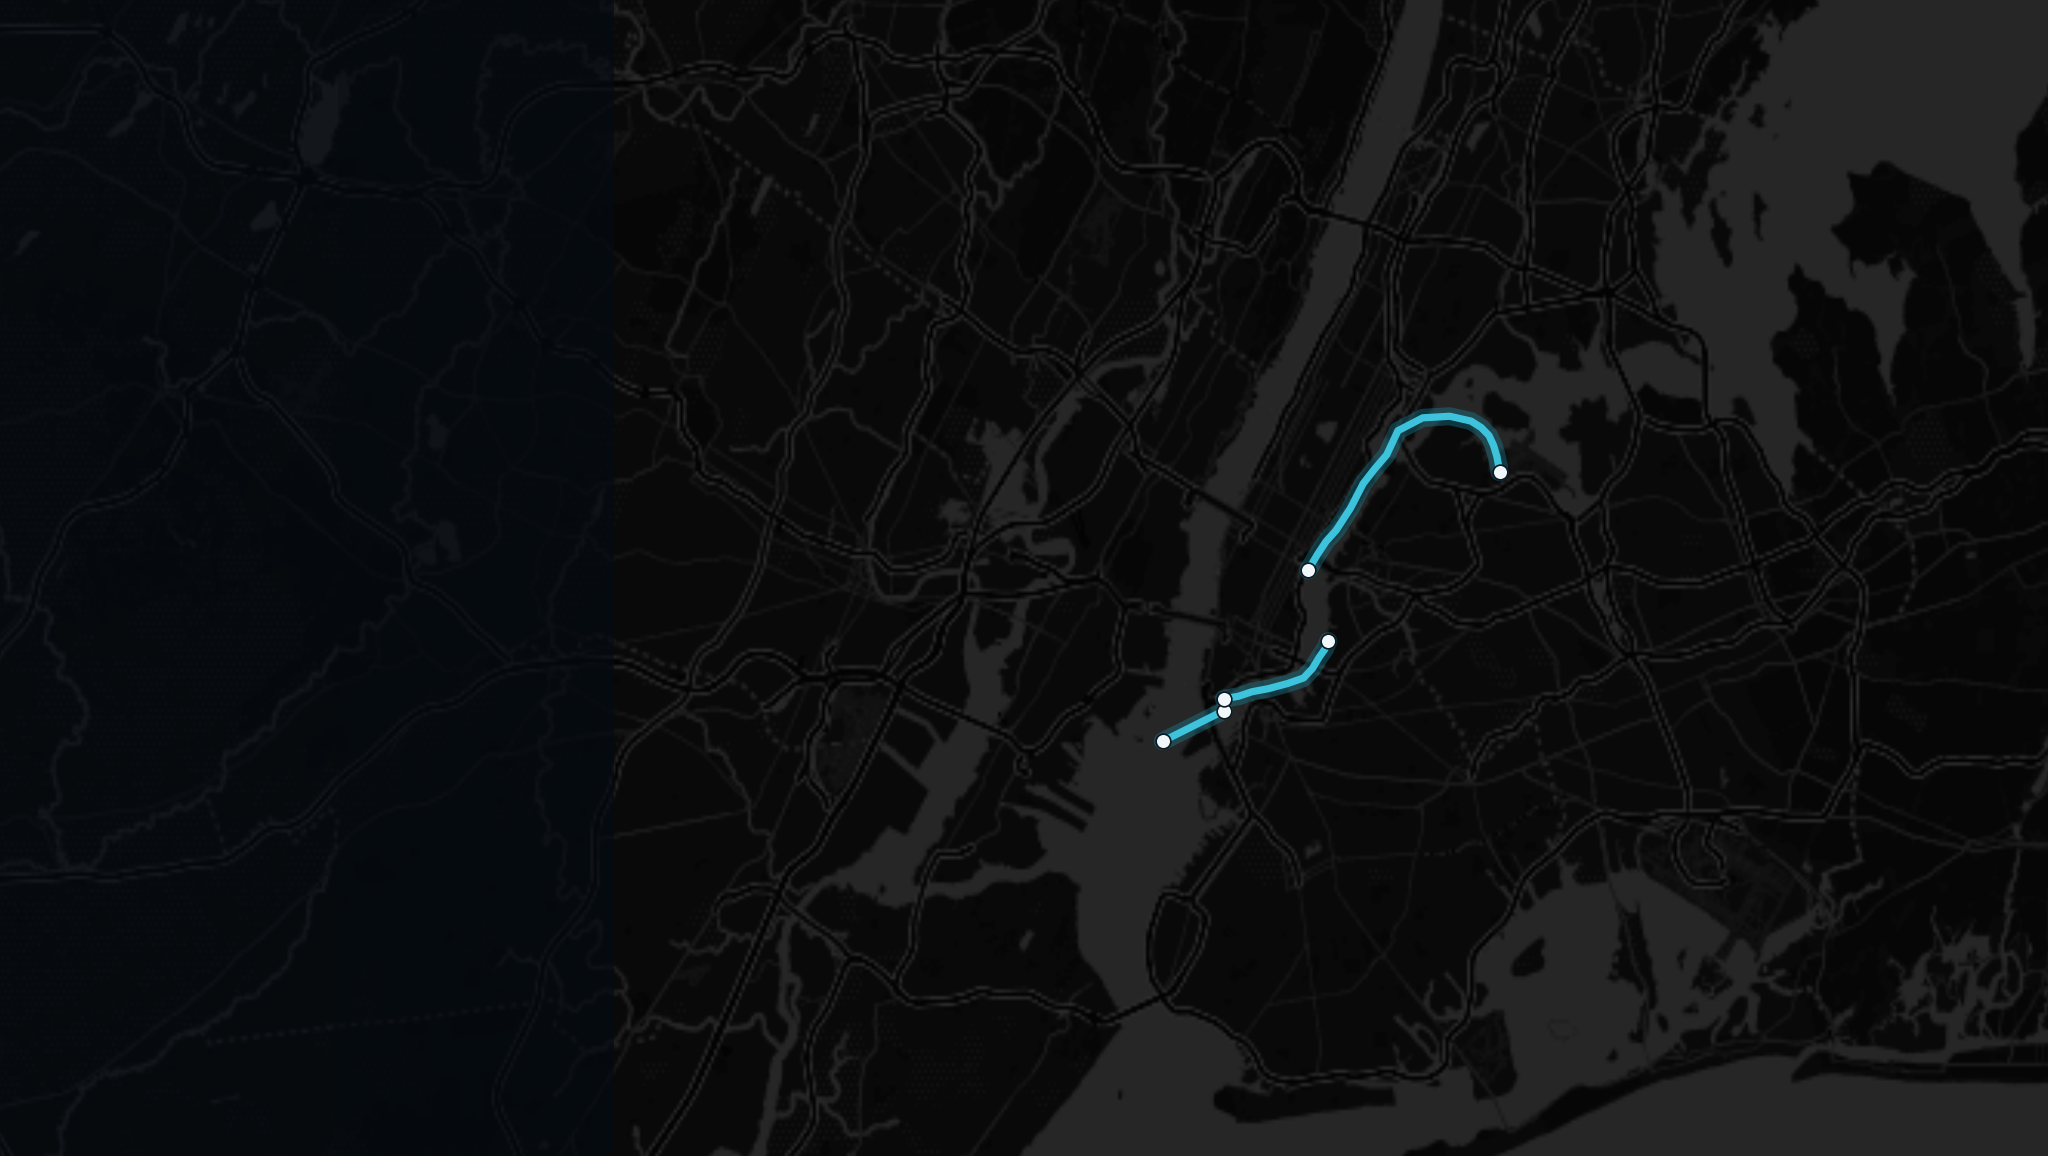
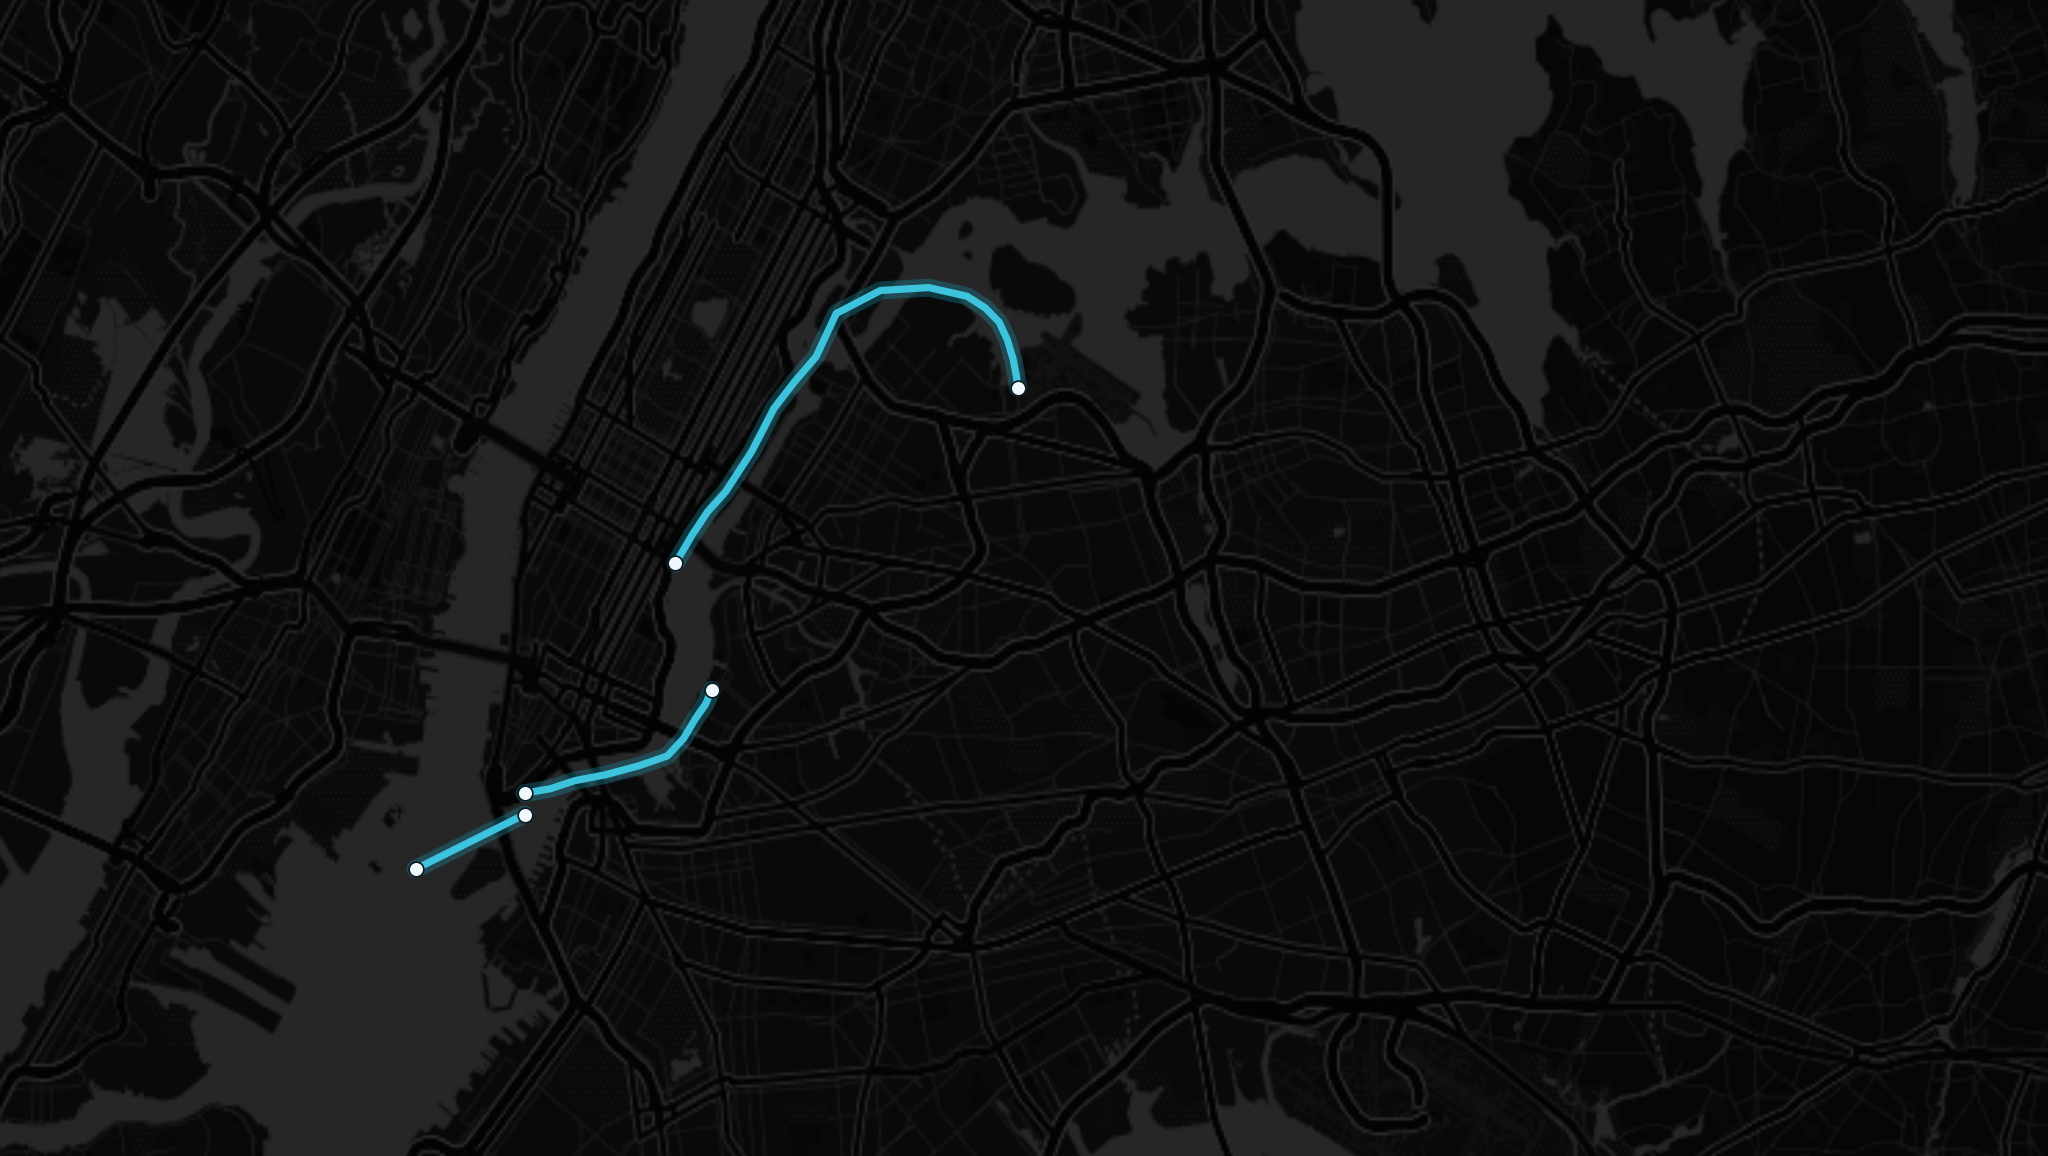
nyc-edc: candidate-links plate v2 (east clear-space for right text panel) + renderer/receipt

diff --git a/deck-studio/assets/nyc-edc/render_nyc_edc_candidate_map_v2_2026_07_29.py b/deck-studio/assets/nyc-edc/render_nyc_edc_candidate_map_v2_2026_07_29.py
@@ -1,0 +1,51 @@
+#!/usr/bin/env python3
+"""NYC EDC candidate-links plate v2 — right clear-space (S11 text panel sits right).
+Routes strictly from data-clean/ROUTES.json. Run: python3 <script> /tmp/na"""
+import importlib.util, json, sys
+from datetime import datetime, timezone
+from pathlib import Path
+ROOT = Path(sys.argv[1] if len(sys.argv) > 1 else "/tmp/na").resolve()
+BASE = ROOT / "scripts/grok-egypt/render_mx_eg_exact_route_maps_2026_07_23.py"
+spec = importlib.util.spec_from_file_location("base_renderer", BASE)
+base = importlib.util.module_from_spec(spec); spec.loader.exec_module(base)
+OUT = ROOT / "deck-studio/assets/nyc-edc/city-maps"
+RECEIPT = Path(__file__).resolve().parent / "NYC-EDC-CANDIDATE-MAP-V2-RECEIPT-2026-07-29.json"
+
+# Wrap base.bbox: after normal pad/min-span, extend EAST so routes sit in left ~58%
+_orig_bbox = base.bbox
+RIGHT_CLEAR = 0.30
+def bbox_east(lines, pad, min_span):
+    minx, miny, maxx, maxy = _orig_bbox(lines, pad, min_span)
+    span_x = maxx - minx
+    maxx += span_x * (RIGHT_CLEAR / (1 - RIGHT_CLEAR))
+    return minx, miny, maxx, maxy
+base.bbox = bbox_east
+
+MAPS = {
+  "edc-candidate-links": {
+    "out": OUT / "edc-candidate-links-exact-route-map.png",
+    "route_ids": [
+      "rn-0e2b916d3b8d",   # E 34th St <-> LGA Marine Air Terminal
+      "ics-bdacfbafa1",    # Pier 11 <-> Paulus Hook
+      "rn-5c8ceecea4d9",   # Pier 11 <-> North Williamsburg (candidate)
+    ],
+    "pad": 0.05, "left_clear": 0.0, "min_span_deg": 0.02,
+  },
+}
+def main():
+    by_id = base.load_routes()
+    OUT.mkdir(parents=True, exist_ok=True)
+    results, fail = [], False
+    for key, cfg in MAPS.items():
+        r = base.render_one(key, cfg, by_id)
+        results.append(r)
+        n = len(r.get("route_ids_resolved") or [])
+        print(key, r.get("status"), r.get("file") or r.get("reason"), "routes", n)
+        if r.get("status") != "ok" or n != len(cfg["route_ids"]): fail = True
+    RECEIPT.write_text(json.dumps({"generated_at": datetime.now(timezone.utc).isoformat(),
+      "renderer": "render_nyc_edc_candidate_map_v2_2026_07_29.py (east clear-space patch)",
+      "results": results}, indent=1))
+    print("FAIL" if fail else "ALL OK")
+    return 1 if fail else 0
+if __name__ == "__main__":
+    raise SystemExit(main())
